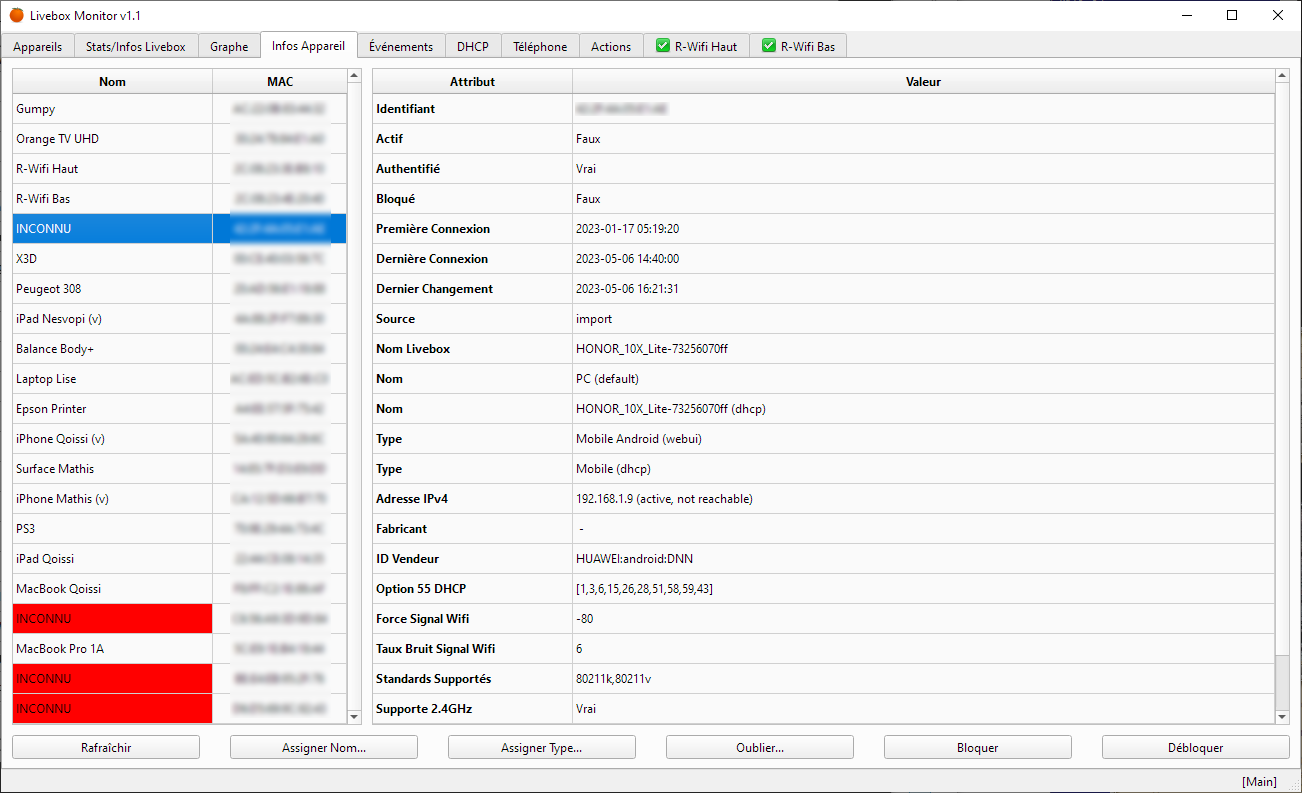
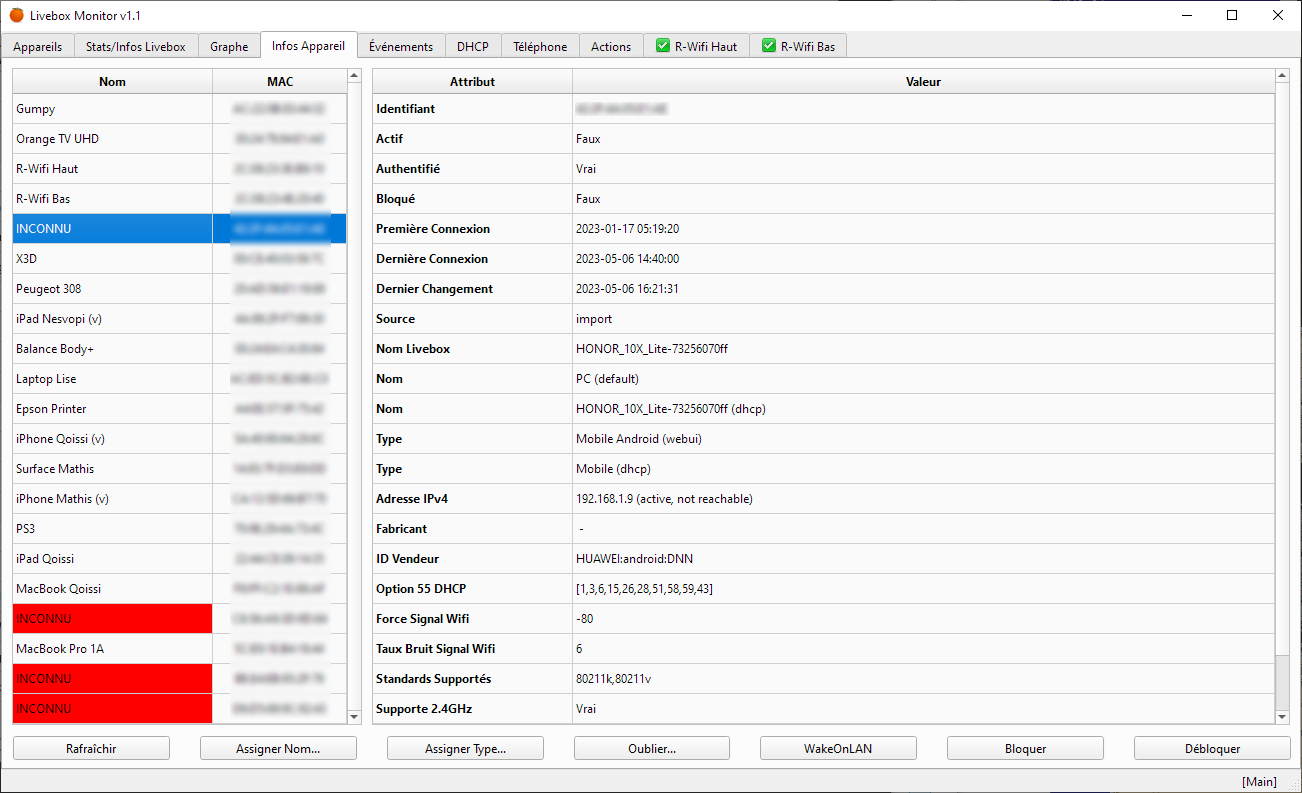
WakeOnLAN button

diff --git a/src/LiveboxMonitor/tabs/LmDeviceInfoTab.py b/src/LiveboxMonitor/tabs/LmDeviceInfoTab.py
@@ -98,6 +98,9 @@ class LmDeviceInfo:
 		aForgetButton = QtWidgets.QPushButton(lx('Forget...'), objectName = 'forget')
 		aForgetButton.clicked.connect(self.forgetButtonClick)
 		aButtonsBox.addWidget(aForgetButton)
+		aWolButton = QtWidgets.QPushButton(lx('WakeOnLAN'), objectName = 'wol')
+		aWolButton.clicked.connect(self.wolButtonClick)
+		aButtonsBox.addWidget(aWolButton)
 		aBlockDeviceButton = QtWidgets.QPushButton(lx('Block'), objectName = 'block')
 		aBlockDeviceButton.clicked.connect(self.blockDeviceButtonClick)
 		aButtonsBox.addWidget(aBlockDeviceButton)
@@ -260,6 +263,24 @@ class LmDeviceInfo:
 				except BaseException as e:
 					LmTools.Error('Error: {}'.format(e))
 					self.displayError('Set type query error.')
+		else:
+			self.displayError(mx('Please select a device.', 'devSelect'))
+
+
+	### Click on WakeOnLAN button
+	def wolButtonClick(self):
+		aCurrentSelection = self._infoDList.currentRow()
+		if aCurrentSelection >= 0:
+			aKey = self._infoDList.item(aCurrentSelection, DSelCol.Key).text()
+			try:
+				aReply = self._session.request('WOL', 'sendWakeOnLan', { 'hostID': aKey, 'broadcast': True })
+				if (aReply is not None) and ('status' in aReply):
+					self.displayStatus(mx('Wake on LAN signal sent to device {}.', 'devWOL').format(aKey))
+				else:
+					self.displayError('WOL query failed.')
+			except BaseException as e:
+				LmTools.Error('Error: {}'.format(e))
+				self.displayError('WOL query error.')
 		else:
 			self.displayError(mx('Please select a device.', 'devSelect'))
 

diff --git a/src/LiveboxMonitor/lang/LmLanguage_FR.py b/src/LiveboxMonitor/lang/LmLanguage_FR.py
@@ -1119,6 +1119,7 @@ TOOLTIPS = {
 				  'Il disparaîtra donc immédiatement de toutes les listes.\n'
 				  'Attention si l\'appareil en question est actif, sa connexion ne sera nullement suspendue,\n'
 				  'cependant toute son activité restera invisible et ce jusqu\'à sa prochaine tentative de connexion.',
+		'wol': 'Permet d\'envoyer un signal de réveil sur réseau (WOL) à l\'appareil sélectionné.',
 		'block': 'Permet de bloquer la connexion de l\'appareil sélectionné.',
 		'unblock': 'Permet de débloquer la connexion de l\'appareil sélectionné.\n'
 				   'L\'état bloqué ou non s\'affiche dans les informations de l\'appareil, champs "Bloqué".'
@@ -1667,6 +1668,7 @@ MESSAGES = {
 	# Device infos
 	'dinfo': {	
 		'devSelect': 'Vous devez sélectionner un appareil.',
+		'devWOL': 'Signal de réveil sur réseau envoyé à l\'appareil {}.',
 		'devBlocked': 'L\'appareil {} est maintenant bloqué.',
 		'devUnblocked': 'L\'appareil {} est maintenant débloqué.',
 		'devNotBlocked': 'L\'appareil {} n\'est pas bloqué.',

diff --git a/src/LiveboxMonitor/lang/LmLanguage_XX.py b/src/LiveboxMonitor/lang/LmLanguage_XX.py
@@ -358,6 +358,7 @@ LABELS = {
 		'Assign Name...': '',
 		'Assign Type...': '',
 		'Forget...': '',
+		'WakeOnLAN': '',
 		'Block': '',
 		'Unblock': '',
 		'Device Infos': '',
@@ -1174,6 +1175,7 @@ TOOLTIPS = {
 		'assignName': '',
 		'assignType': '',
 		'forget': '',
+		'wol': '',
 		'block': '',
 		'unblock': ''
 	},
@@ -1725,6 +1727,7 @@ MESSAGES = {
 	# Device infos
 	'dinfo': {	
 		'devSelect':  '',
+		'devWOL': '',
 		'devBlocked':  '',
 		'devUnblocked':  '',
 		'devNotBlocked':  '',

diff --git a/README.md b/README.md
@@ -359,6 +359,7 @@ L'onglet `Infos Appareil` propose les boutons suivants :
 
     Il est possible de sélectionner un des types standards connus par la Livebox dans le menu, chaque type étant affiché avec son icône Livebox correspondante. Lorsqu'un type standard est sélectionné, son nom connu par la Livebox est automatiquement rempli dans la zone de texte et on peut valider le dialogue. Il reste possible d'assigner manuellement un type non connu par la Livebox en le tapant directement dans la zone de texte. Note : bien que le type "Djingo Speaker" soit référencé comme standard par la Livebox 5, ce type ne semble pas (encore ?) supporté par l'interface graphique de la Livebox.
 - **`Oublier...`** : permet de demander à la Livebox d'oublier définitivement cet appareil. Il disparaîtra donc immédiatement de toutes les listes. Attention si l'appareil en question est actif, sa connexion ne sera nullement suspendue, cependant toute son activité restera invisible et ce jusqu'à sa prochaine tentative de connexion.
+- **`WakeOnLAN`** : permet d\'envoyer un signal de réveil sur réseau à l'appareil sélectionné. Celui-ci doit être configuré pour s'allumer à la réception de ce signal (option WOL) pour que cela fonctionne.
 - **`Bloquer`** : permet de bloquer la connexion de l'appareil sélectionné.
 - **`Débloquer`** : permet de débloquer la connexion de l'appareil sélectionné. L'état bloqué ou non s'affiche dans les informations de l'appareil, champs "Bloqué".
 
